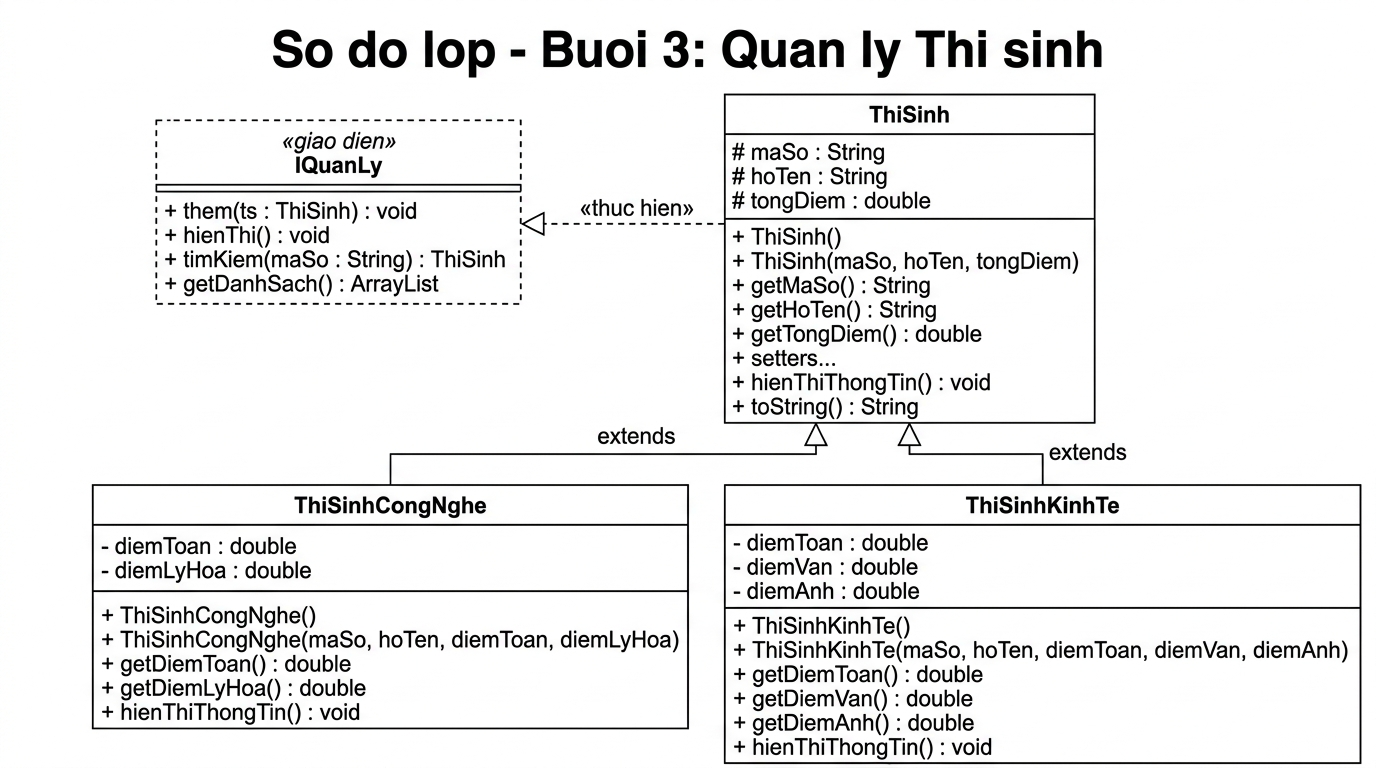
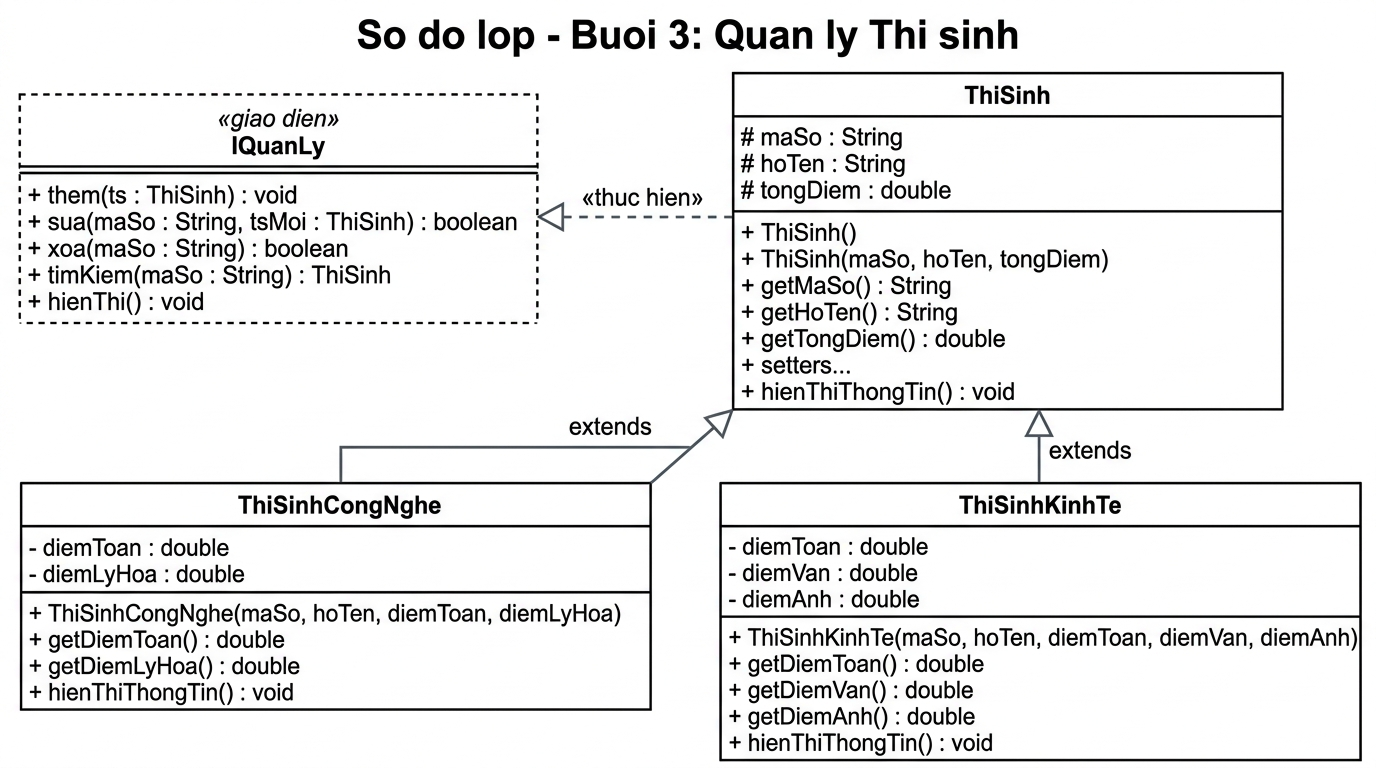
Buoi3: IQuanLy CRUD (them/sua/xoa/timKiem/hienThi) + update SoDoLop

Changed region(s): [[0.0, 0.0, 1.0, 1.0]]

diff --git a/BaiTaptheobuoi/Buoi7/Buoi7.java b/BaiTaptheobuoi/Buoi7/Buoi7.java
@@ -1,22 +1,18 @@
 import java.io.*;
 import java.util.*;
 
-// Buoi 7: Thao tac voi tep tin (File I/O)
-// - Luu danh sach sinh vien vao file text
-// - Doc danh sach sinh vien tu file text
+
 public class Buoi7 {
 
     static final String TEN_FILE = "danhsach.txt";
     static ArrayList<String[]> danhSach = new ArrayList<>();
     static Scanner sc = new Scanner(System.in);
 
-    // ============================================================
-    // GHI danh sach vao file text
-    // ============================================================
+   
     static void ghiFile() {
         try (PrintWriter pw = new PrintWriter(new FileWriter(TEN_FILE))) {
             for (String[] sv : danhSach) {
-                // Moi dong: maSo|hoTen|nganh|tongDiem
+                
                 pw.println(sv[0] + "|" + sv[1] + "|" + sv[2] + "|" + sv[3]);
             }
             System.out.println(">> Da luu " + danhSach.size() + " sinh vien vao file: " + TEN_FILE);
@@ -25,9 +21,7 @@ public class Buoi7 {
         }
     }
 
-    // ============================================================
-    // DOC danh sach tu file text
-    // ============================================================
+    
     static void docFile() {
         danhSach.clear();
         try (BufferedReader br = new BufferedReader(new FileReader(TEN_FILE))) {
@@ -44,9 +38,7 @@ public class Buoi7 {
         }
     }
 
-    // ============================================================
-    // HIEN THI danh sach
-    // ============================================================
+   
     static void hienThi() {
         if (danhSach.isEmpty()) { System.out.println("  (Danh sach trong)"); return; }
         System.out.println("  +---------+--------------------+----------+------+");
@@ -58,14 +50,10 @@ public class Buoi7 {
         System.out.println("  +---------+--------------------+----------+------+");
     }
 
-    // ============================================================
-    // MAIN
-    // ============================================================
+  
     public static void main(String[] args) {
         int choice = -1;
-        System.out.println("==========================================");
-        System.out.println("   BUOI 7: THAO TAC VOI FILE");
-        System.out.println("==========================================");
+        
 
         while (choice != 0) {
             System.out.println("\n--- MENU ---");

diff --git a/BaiTaptheobuoi/Buoi5/QuanLyThiSinh.java b/BaiTaptheobuoi/Buoi5/QuanLyThiSinh.java
@@ -1,7 +1,7 @@
 import java.util.ArrayList;
 import java.util.Scanner;
 
-// Buoi5: Ke thua & Da hinh - QuanLyThiSinh implements IQuanLy
+// kế thừa
 public class QuanLyThiSinh implements IQuanLy {
 
     private ArrayList<ThiSinh> danhSach = new ArrayList<>();
@@ -32,7 +32,7 @@ public class QuanLyThiSinh implements IQuanLy {
     @Override
     public ArrayList<ThiSinh> getDanhSach() { return danhSach; }
 
-    // Sap xep theo tong diem giam dan (bubble sort)
+    // Sắp xếp điểm
     public void sapXepTheoDiem() {
         for (int i = 0; i < danhSach.size() - 1; i++)
             for (int j = 0; j < danhSach.size() - 1 - i; j++)
@@ -52,9 +52,7 @@ public class QuanLyThiSinh implements IQuanLy {
         return tong / danhSach.size();
     }
 
-    // ================================================================
-    // MAIN
-    // ================================================================
+    
     public static void main(String[] args) {
         QuanLyThiSinh ql = new QuanLyThiSinh();
         Scanner sc = new Scanner(System.in);

diff --git a/BaiTaptheobuoi/Buoi6/DemoException.java b/BaiTaptheobuoi/Buoi6/DemoException.java
@@ -2,14 +2,14 @@ import java.util.Scanner;
 
 public class DemoException {
 
-    // 1 lop exception duy nhat
+    
     static class DiemKhongHopLeException extends Exception {
         public DiemKhongHopLeException(double diem) {
             super("Diem " + diem + " khong hop le! Phai tu 0 den 10");
         }
     }
 
-    // Ham kiem tra diem - nem exception neu sai
+    // check điểm
     static void kiemTraDiem(double diem) throws DiemKhongHopLeException {
         if (diem < 0 || diem > 10) {
             throw new DiemKhongHopLeException(diem);
@@ -19,7 +19,7 @@ public class DemoException {
     public static void main(String[] args) {
         Scanner sc = new Scanner(System.in);
 
-        System.out.println("=== BUOI 6: EXCEPTION HANDLING ===");
+        
         System.out.print("Nhap diem cua ban: ");
 
         try {

diff --git a/BaiTaptheobuoi/Buoi3/IQuanLy.java b/BaiTaptheobuoi/Buoi3/IQuanLy.java
@@ -1,9 +1,10 @@
 import java.util.ArrayList;
 
-// Giao dien dinh nghia cac phep toan quan ly
+// Giao dien quan ly thi sinh (CRUD)
 public interface IQuanLy {
-    void them(ThiSinh ts);
-    void hienThi();
-    ThiSinh timKiem(String maSo);
-    ArrayList<ThiSinh> getDanhSach();
+    void them(ThiSinh ts);          // Them moi
+    boolean sua(String maSo, ThiSinh tsMoi); // Sua theo ma so
+    boolean xoa(String maSo);       // Xoa theo ma so
+    ThiSinh timKiem(String maSo);   // Tim kiem
+    void hienThi();                  // Hien thi danh sach
 }

diff --git a/BaiTaptheobuoi/Buoi3/Thisinh.java b/BaiTaptheobuoi/Buoi3/Thisinh.java
@@ -20,7 +20,8 @@ public class ThiSinh {
     public void setHoTen(String hoTen)      { this.hoTen = hoTen; }
     public void setTongDiem(double tongDiem) { this.tongDiem = tongDiem; }
 
-    // Phuong thuc nay se duoc lop con ghi de (override)
+    // Ghi đè
+    
     public void hienThiThongTin() {
         System.out.printf("Ma so: %-8s | Ho ten: %-20s | Tong diem: %.2f%n",
                 maSo, hoTen, tongDiem);

diff --git a/BaiTaptheobuoi/Buoi5/SinhVienKinhTe.java b/BaiTaptheobuoi/Buoi5/SinhVienKinhTe.java
@@ -1,5 +1,4 @@
-// Lop con 2: Sinh vien nganh Kinh te
-// Thi 3 mon: Toan + Van + Anh
+
 public class SinhVienKinhTe extends ThiSinh {
     private double diemToan;
     private double diemVan;
